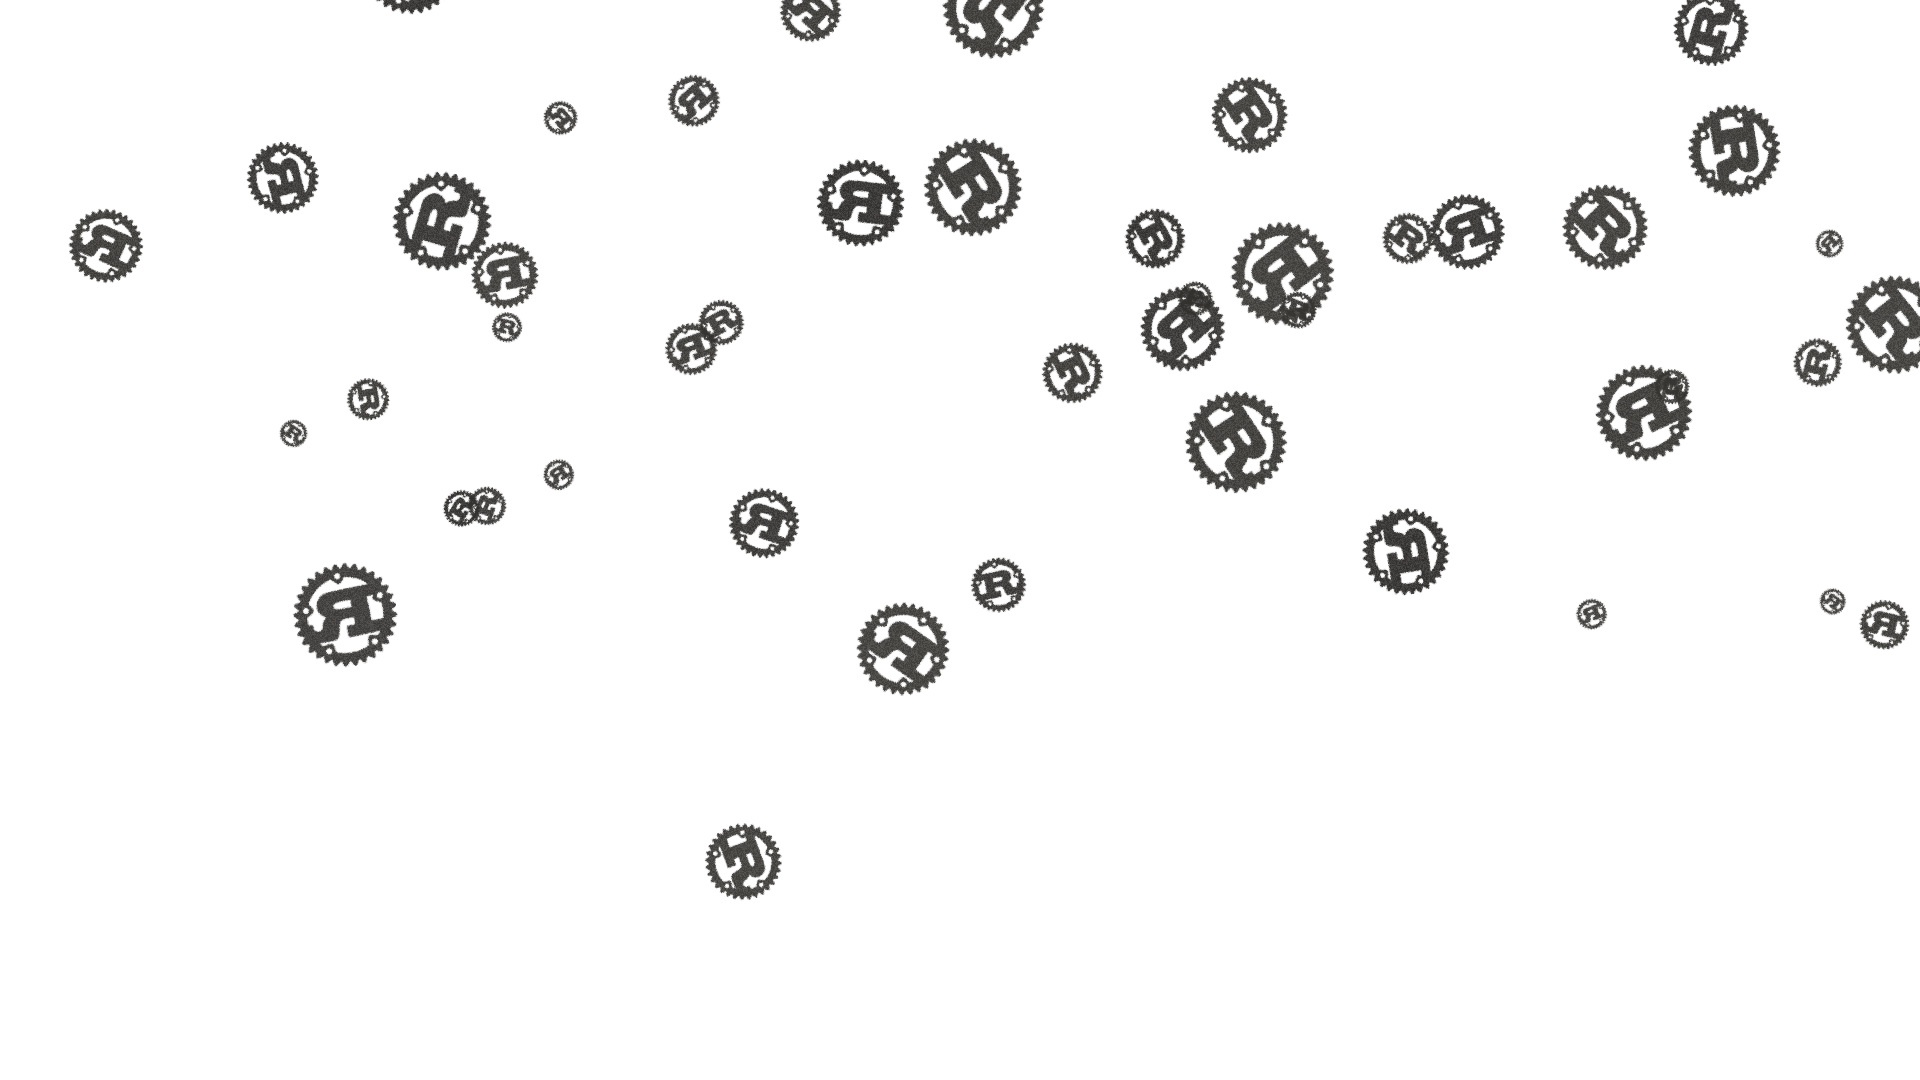
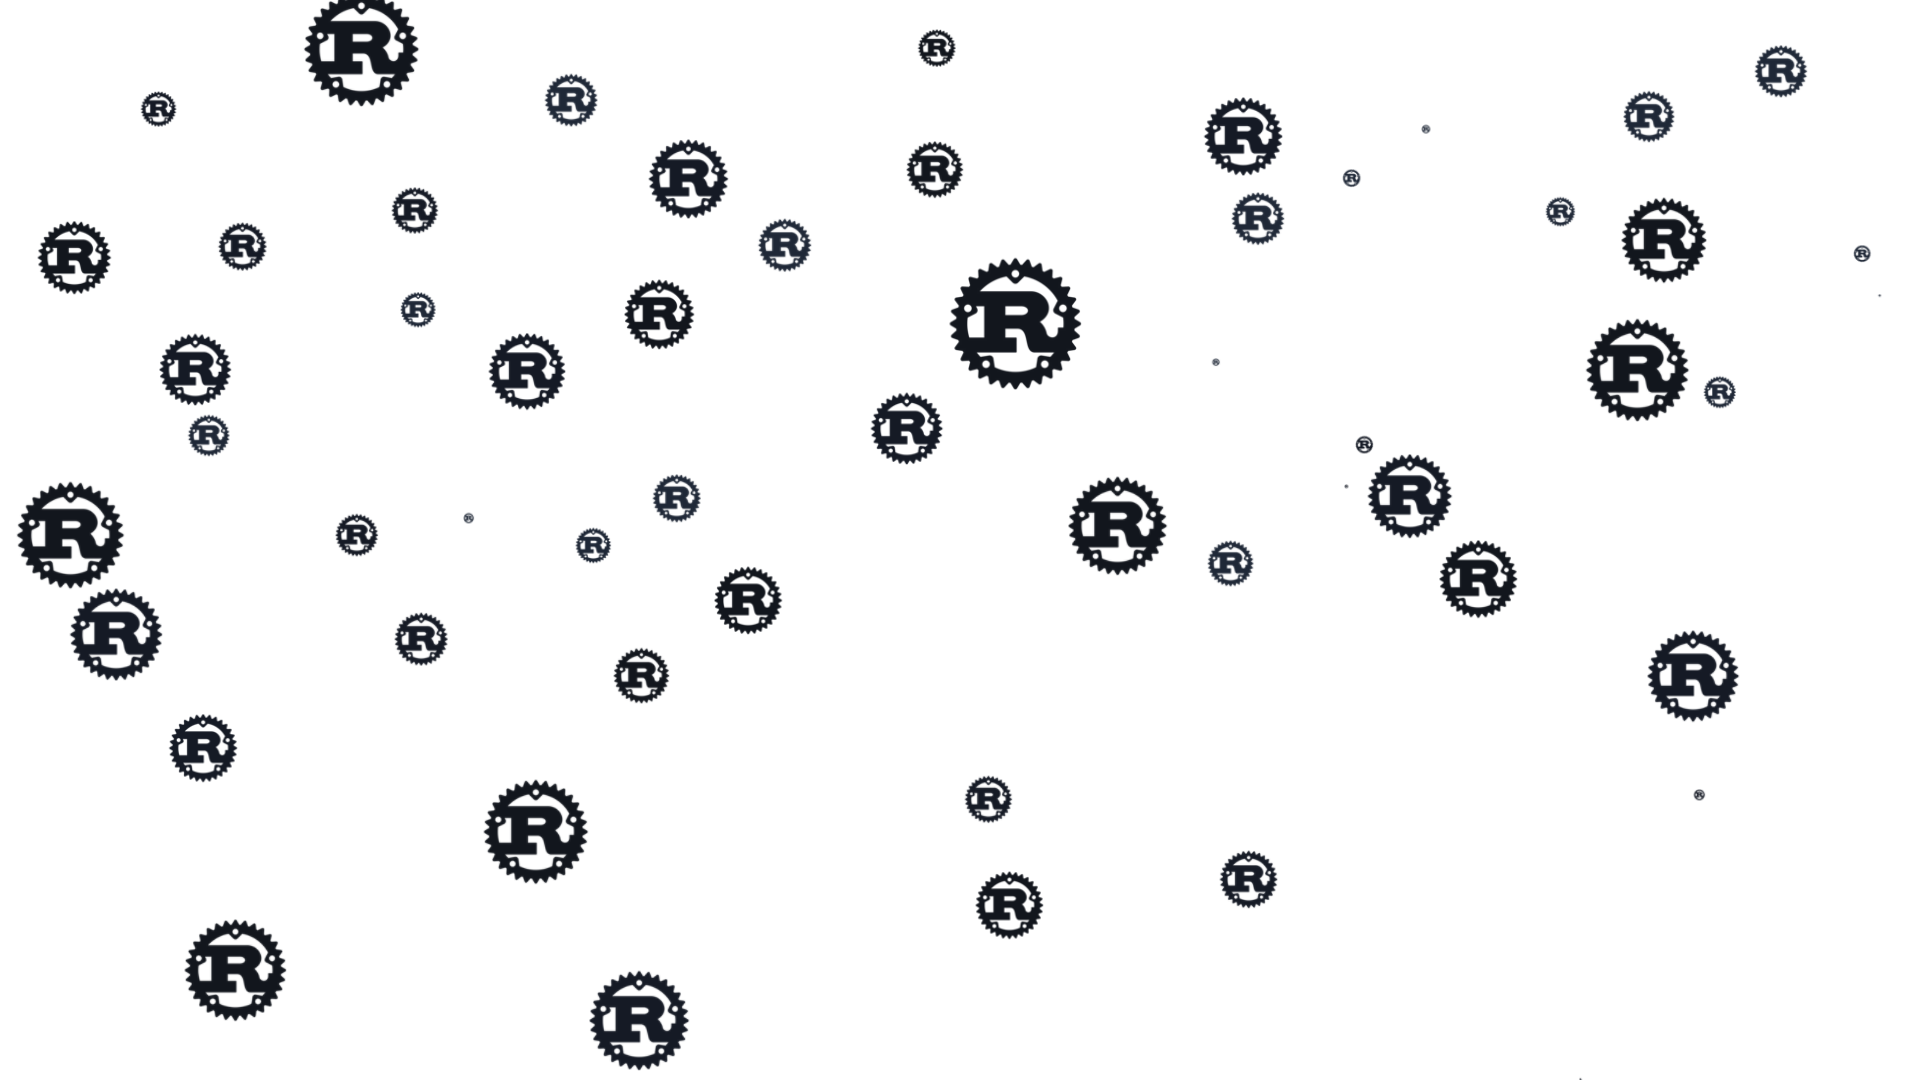
finished main page background

diff --git a/dist/index.html b/dist/index.html
@@ -29,9 +29,9 @@
 
             <div class="heading">
                 <audio defer="" src="/nyihaha.4e5d2df2.wav" id="nyihaha"></audio>
-                <!-- 
-                <img class="rust_log rust_log1" src="../svgs/forgrnd_rustwheel.svg" alt="Rust logo">
-                <img class="rust_log rust_log2" src="../svgs/forgrnd_rustwheel.svg" alt="Rust logo"> -->
+
+                <img class="rust_log rust_log1" src="/forgrnd_rustwheel.37bab077.svg" alt="Rust logo">
+                <img class="rust_log rust_log2" src="/forgrnd_rustwheel.37bab077.svg" alt="Rust logo">
 
                 <div class="heading-container">
                     <h1 id="main_title">Rust<span class="cursor">|</span></h1>

diff --git a/sites/index.html b/sites/index.html
@@ -33,9 +33,9 @@
 
             <div class="heading">
                 <audio defer src="../sounds/nyihaha.wav" id="nyihaha"></audio>
-                <!-- 
+
                 <img class="rust_log rust_log1" src="../svgs/forgrnd_rustwheel.svg" alt="Rust logo">
-                <img class="rust_log rust_log2" src="../svgs/forgrnd_rustwheel.svg" alt="Rust logo"> -->
+                <img class="rust_log rust_log2" src="../svgs/forgrnd_rustwheel.svg" alt="Rust logo">
 
                 <div class="heading-container">
                     <h1 id="main_title">Rust<span class="cursor">|</span></h1>

diff --git a/sites/style.scss b/sites/style.scss
@@ -56,7 +56,7 @@ $t_window_size: 46vh;
     transition: left .5s;
     transition: right .5s;
     position: relative;
-    // background-image: url("../imgs/main_background.png");
+    background-image: url("../imgs/main_background.png");
 
     .rust_log {
         position: absolute;

diff --git a/dist/index.a39aaad5.css b/dist/index.a39aaad5.css
@@ -36,6 +36,7 @@
   height: calc(54vh - 80px);
   width: 100%;
   background-color: #181f2b;
+  background-image: url("main_background.c3bc9e4f.png");
   transition: right .5s;
   position: relative;
 }
